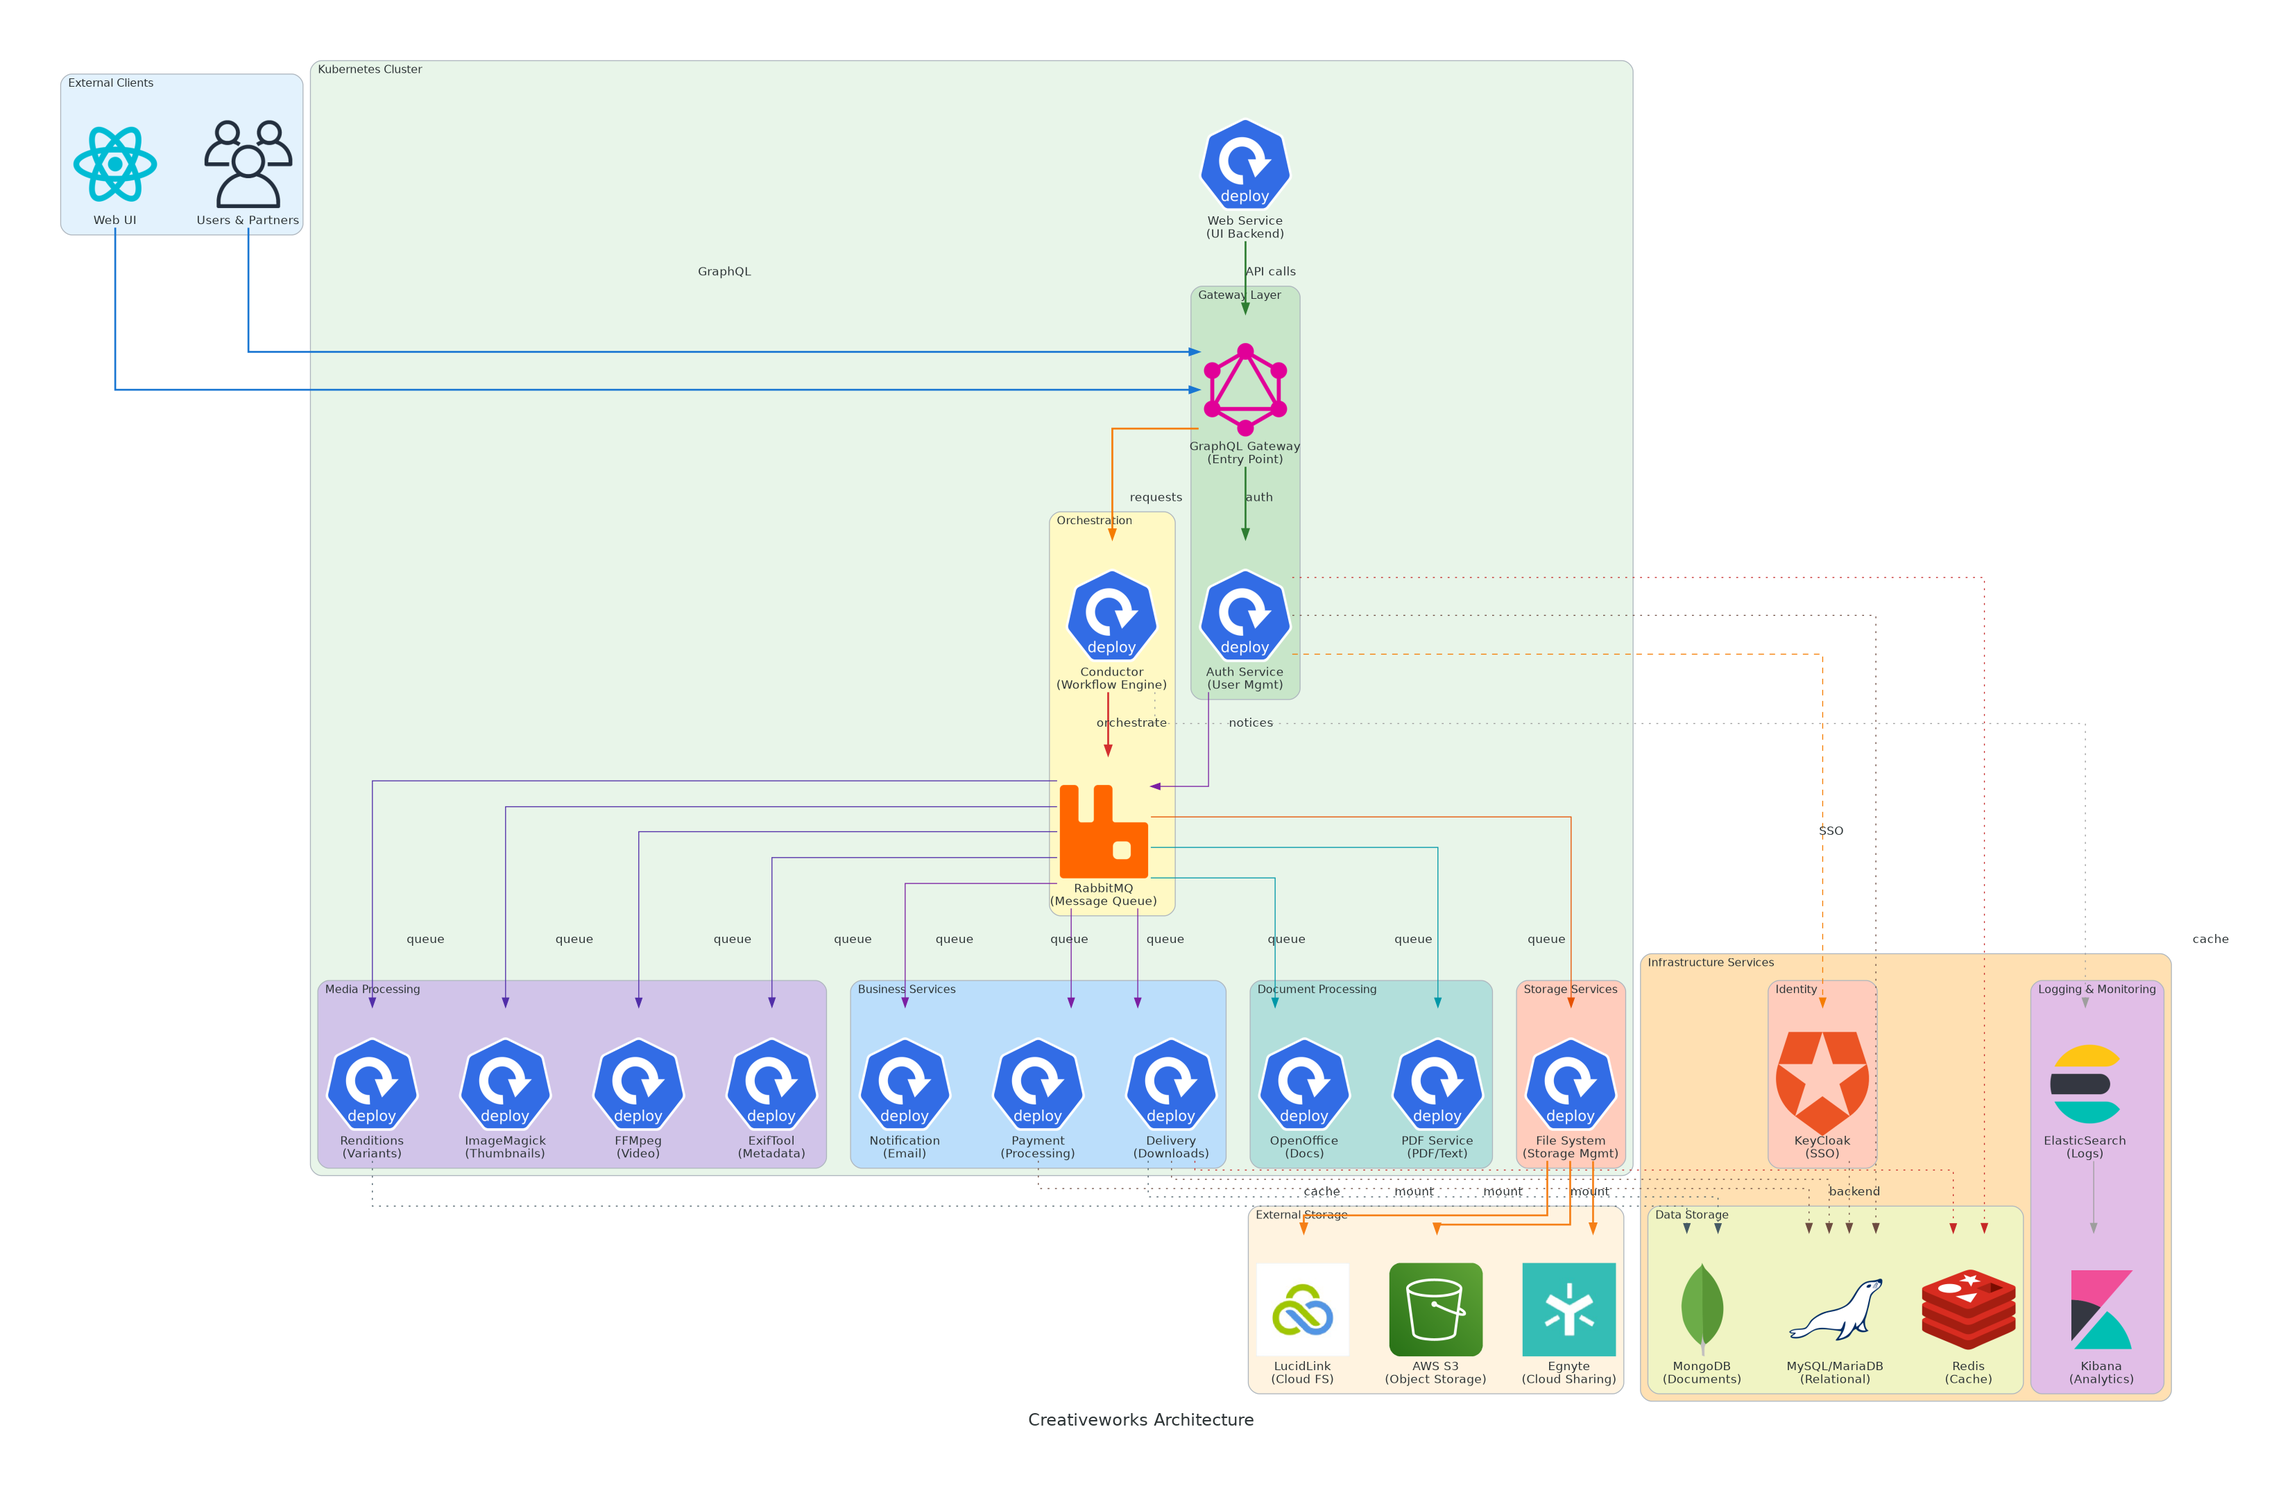
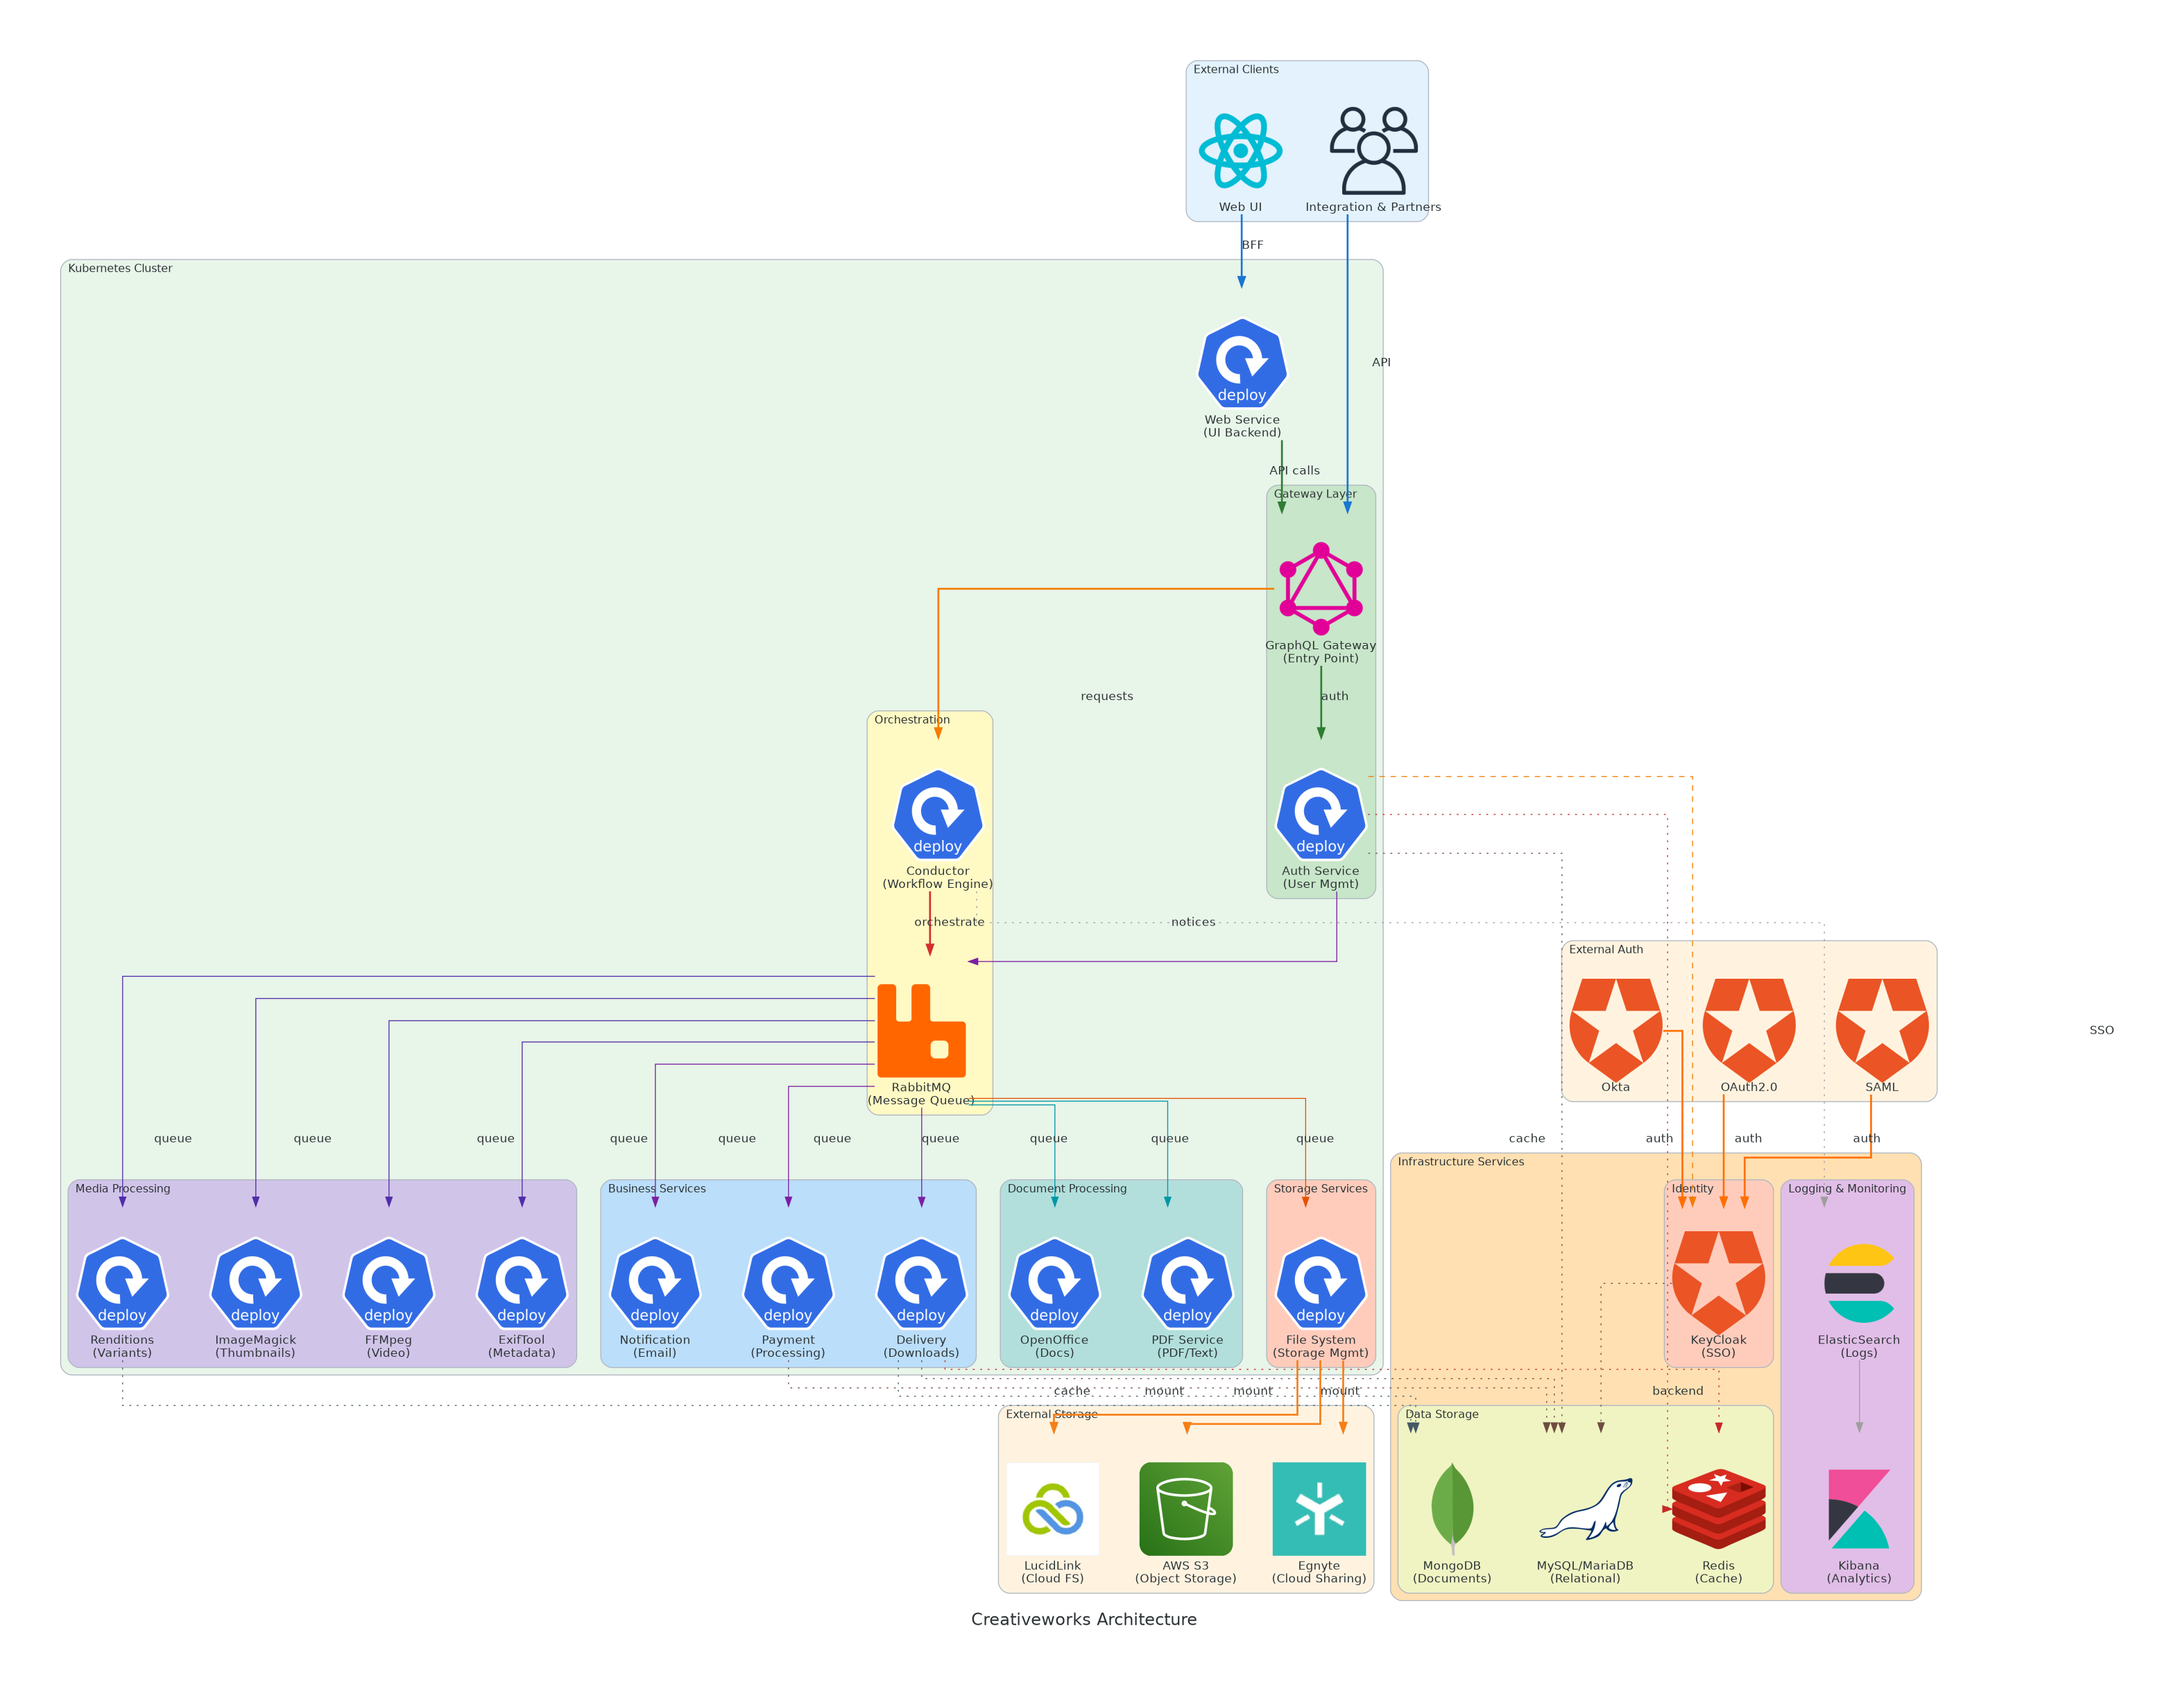
Update Creativeworks architecture with corrected flows and external auth
External Clients Updates:
- Corrected Web UI flow: now points to Web Service (not GraphQL Gateway)
- Implements proper Backend-for-Frontend (BFF) pattern
- Renamed "Users & Partners" to "Integration & Partners"
- Integration & Partners continue to use GraphQL Gateway for API access

External Authentication:
- Added new External Auth block with three providers:
  - OAuth2.0 (industry standard authorization)
  - SAML (enterprise SSO authentication)
  - Okta (identity and access management)
- All external auth providers integrate directly with KeyCloak

Documentation Updates:
- Updated External Access Layer section
- Updated Communication Patterns with new flows
- Updated Architecture Flow diagrams
- Architecture version bumped to 0.4

This correctly represents the authentication and access patterns
for presentation to stakeholders.

Changed region(s): [[0.031, 0.0312, 0.9616, 0.9678], [0.0, 0.0312, 0.1861, 0.1873]]

diff --git a/creativeworks_diagram.py b/creativeworks_diagram.py
@@ -35,8 +35,14 @@ with Diagram(
 
     # External Users
     with Cluster("External Clients", graph_attr={"bgcolor": "#E3F2FD"}):
-        users = Users("Users & Partners")
+        partners = Users("Integration & Partners")
         web_ui = React("Web UI")
+
+    # External Authentication
+    with Cluster("External Auth", graph_attr={"bgcolor": "#FFF3E0"}):
+        oauth = Auth0("OAuth2.0")
+        saml = Auth0("SAML")
+        okta = Auth0("Okta")
 
     # Kubernetes Cluster
     with Cluster("Kubernetes Cluster", graph_attr={"bgcolor": "#E8F5E9"}):
@@ -100,9 +106,14 @@ with Diagram(
     # CONNECTIONS
     # ==========================================
 
-    # External to Gateway
-    users >> Edge(color="#1976D2", style="bold", label="GraphQL") >> graphql_gateway
-    web_ui >> Edge(color="#1976D2", style="bold") >> graphql_gateway
+    # External Clients to Gateway
+    partners >> Edge(color="#1976D2", style="bold", label="API") >> graphql_gateway
+    web_ui >> Edge(color="#1976D2", style="bold", label="BFF") >> web_service
+
+    # External Auth to KeyCloak
+    oauth >> Edge(color="#FF6F00", style="bold", label="auth") >> keycloak
+    saml >> Edge(color="#FF6F00", style="bold", label="auth") >> keycloak
+    okta >> Edge(color="#FF6F00", style="bold", label="auth") >> keycloak
 
     # Gateway to Auth (Direct - Synchronous)
     graphql_gateway >> Edge(color="#2E7D32", style="bold", label="auth") >> auth_service
@@ -166,3 +177,6 @@ with Diagram(
 print("✓ Creativeworks Architecture Diagram generated: creativeworks_architecture.png")
 print("  - File System Service with S3, Egnyte, and LucidLink storage backends")
 print("  - Using official Egnyte and LucidLink company logos")
+print("  - Updated: Web UI → Web Service (BFF pattern)")
+print("  - Updated: Users renamed to Integration & Partners")
+print("  - Added: External Auth block (OAuth2.0, SAML, Okta → KeyCloak)")

diff --git a/creativeworks-architecture.md b/creativeworks-architecture.md
@@ -11,8 +11,19 @@
 
 ### API Gateway
 - **GraphQL Gateway** - Single entry point for all external API calls
-- All external requests MUST go through the GraphQL Gateway
+- All external API requests (from Integration & Partners) go through the GraphQL Gateway
 - Gateway communicates directly with Auth-Service (synchronous)
+
+### Web UI Access
+- **Web UI** - Browser-based user interface
+- Connects to Web Service (UI Backend), NOT directly to GraphQL Gateway
+- Web Service acts as Backend-for-Frontend (BFF) pattern
+
+### External Authentication
+- **OAuth2.0** - Industry standard for authorization
+- **SAML** - Enterprise SSO authentication
+- **Okta** - Identity and access management platform
+- All external auth providers integrate directly with KeyCloak
 
 ---
 
@@ -128,8 +139,9 @@
 ## Communication Patterns
 
 ### Synchronous Communication
-- **External → GraphQL Gateway → Auth-Service** (direct HTTP/GraphQL)
-- **Web Service → GraphQL Gateway** (API calls on behalf of Web UI)
+- **Integration & Partners → GraphQL Gateway → Auth-Service** (direct HTTP/GraphQL)
+- **Web UI → Web Service → GraphQL Gateway** (BFF pattern - Web Service makes API calls on behalf of Web UI)
+- **External Auth (OAuth2.0/SAML/Okta) → KeyCloak** (direct authentication)
 
 ### Asynchronous Communication (via RabbitMQ)
 - **Auth-Service → RabbitMQ** (sends notification messages)
@@ -142,15 +154,15 @@
 ## Architecture Flow
 
 ```
-External Clients
-       ↓
-GraphQL Gateway (GraphQL-Service)
-       ↓
-   Auth-Service (direct)
-       ↓
-RabbitMQ ←→ Conductor Service
-       ↓
-   [All other microservices consume from queues]
+Integration & Partners → GraphQL Gateway → Auth-Service
+                              ↓
+                         Conductor ←→ RabbitMQ
+                              ↓
+                    [All microservices consume from queues]
+
+Web UI → Web Service → GraphQL Gateway → Auth-Service
+
+External Auth (OAuth2.0, SAML, Okta) → KeyCloak → Auth-Service
 ```
 
 ---
@@ -191,5 +203,5 @@ RabbitMQ ←→ Conductor Service
 
 ---
 
-**Last Updated:** 2025-11-07
-**Version:** 0.3 - Added File System Service for managing S3, Egnyte, and LucidLink storage backends
+**Last Updated:** 2025-11-10
+**Version:** 0.4 - Updated External Clients flow (Web UI → Web Service), renamed to Integration & Partners, added External Auth block (OAuth2.0, SAML, Okta → KeyCloak)

diff --git a/MEMORY.md b/MEMORY.md
@@ -16,7 +16,23 @@ Working on GitLab setup guide for the alexa-skills-kit-js repository.
 
 ### Completed Work (Latest First)
 
-1. **File System Microservice Addition** (2025-11-07)
+1. **Architecture Flow Corrections** (2025-11-10)
+   - Updated External Clients flow:
+     - **Web UI** now correctly points to **Web Service** (not GraphQL Gateway)
+     - Implements proper Backend-for-Frontend (BFF) pattern
+     - Renamed "Users & Partners" to **"Integration & Partners"**
+   - Added new **External Auth block**:
+     - OAuth2.0 authentication
+     - SAML enterprise SSO
+     - Okta identity management
+     - All external auth providers connect directly to KeyCloak
+   - Updated files:
+     - `creativeworks-architecture.md` - Updated External Access Layer, Communication Patterns, and Architecture Flow sections
+     - `creativeworks_diagram.py` - Added External Auth cluster, corrected Web UI connection
+     - `creativeworks_architecture.png` - Regenerated with corrected flows
+   - Architecture version updated to 0.4
+
+2. **File System Microservice Addition** (2025-11-07)
    - Added File System Service to Creativeworks architecture
    - Integrated support for three storage backends:
      - **AWS S3** - Object storage for media assets
@@ -117,6 +133,14 @@ The repository contains sample Alexa skills in the `samples/` directory and rece
 ---
 
 ## Session Log
+
+### Session 2 (2025-11-10)
+- Added File System microservice with S3, Egnyte, and LucidLink support
+- Replaced generic storage icons with official company logos for presentation
+- Corrected External Clients flow (Web UI → Web Service BFF pattern)
+- Renamed "Users & Partners" to "Integration & Partners"
+- Added External Auth block (OAuth2.0, SAML, Okta → KeyCloak)
+- Architecture version progressed from 0.2 → 0.4
 
 ### Session 1 (2025-11-04)
 - Initial memory file creation
